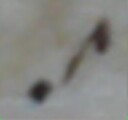
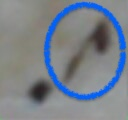
Modify images to highlight the right nc

Changed region(s): [[0.3125, 0.0, 1.0, 0.85]]

diff --git a/README_conversion_table.md b/README_conversion_table.md
@@ -42,7 +42,7 @@ For more information on how to encode chants using MEI Neumes, please consult th
 |    |   Class  | Strict GABC | Neumes MEI | Image | Rendition |
 |----|----------|-------------|------------| ----- | --------- |
 | 1  | Square (note head)                              | lowercase characters <br/>from `a` to `m` | `<nc>` | <img src="images/square_punctum.jpg" width="60"> <img src="images/punctum_AQ.jpg" width="60"/> | <img src="images/verovio_square.png" height="75"> |
-| 2  | Rhombus                                         | uppercase characters <br/>from `A` to `M`   | `<nc`**`tilt="se"`**`/>` | <img src="images/stemright_rhombus.jpg" width="120"> <img src="images/clivis_rhombusbelow_AQ.jpg" width="60"> | <img src="images/verovio_rhombus.png" height="75"> |
+| 2  | Rhombus                                         | uppercase characters <br/>from `A` to `M`   | `<nc`**`tilt="se"`**`/>` | <img src="images/stemright_rhombus2.jpg" width="120"> <img src="images/clivis_rhombusbelow_AQ.jpg" width="60"> | <img src="images/verovio_rhombus.png" height="75"> |
 | 3  | Downward stem                                   | `V` or `v` | `<nc>` with `@tilt=n` (`ne`) or `@tilt=s` | - | - |
 | 3a  | Downward stem _left side of note_              | `V` | `<nc`**`tilt="n"`**`/>` (Square notation) <br/>`<nc`**`tilt="ne"`**`/>` (Aquitanian notation) | <img src="images/clivis(stemleft).jpg" width="60"> <img src="images/pes_AQ.jpg" width="60"> | <img src="images/verovio_stemleft.png" height="75"> |
 | 3b  | Downward stem _right side of note_             | `v` | `<nc`**`tilt="s"`**`/>` | <img src="images/stemright_rhombus.jpg" width="120"> | <img src="images/verovio_stemright.png" height="75"> |
